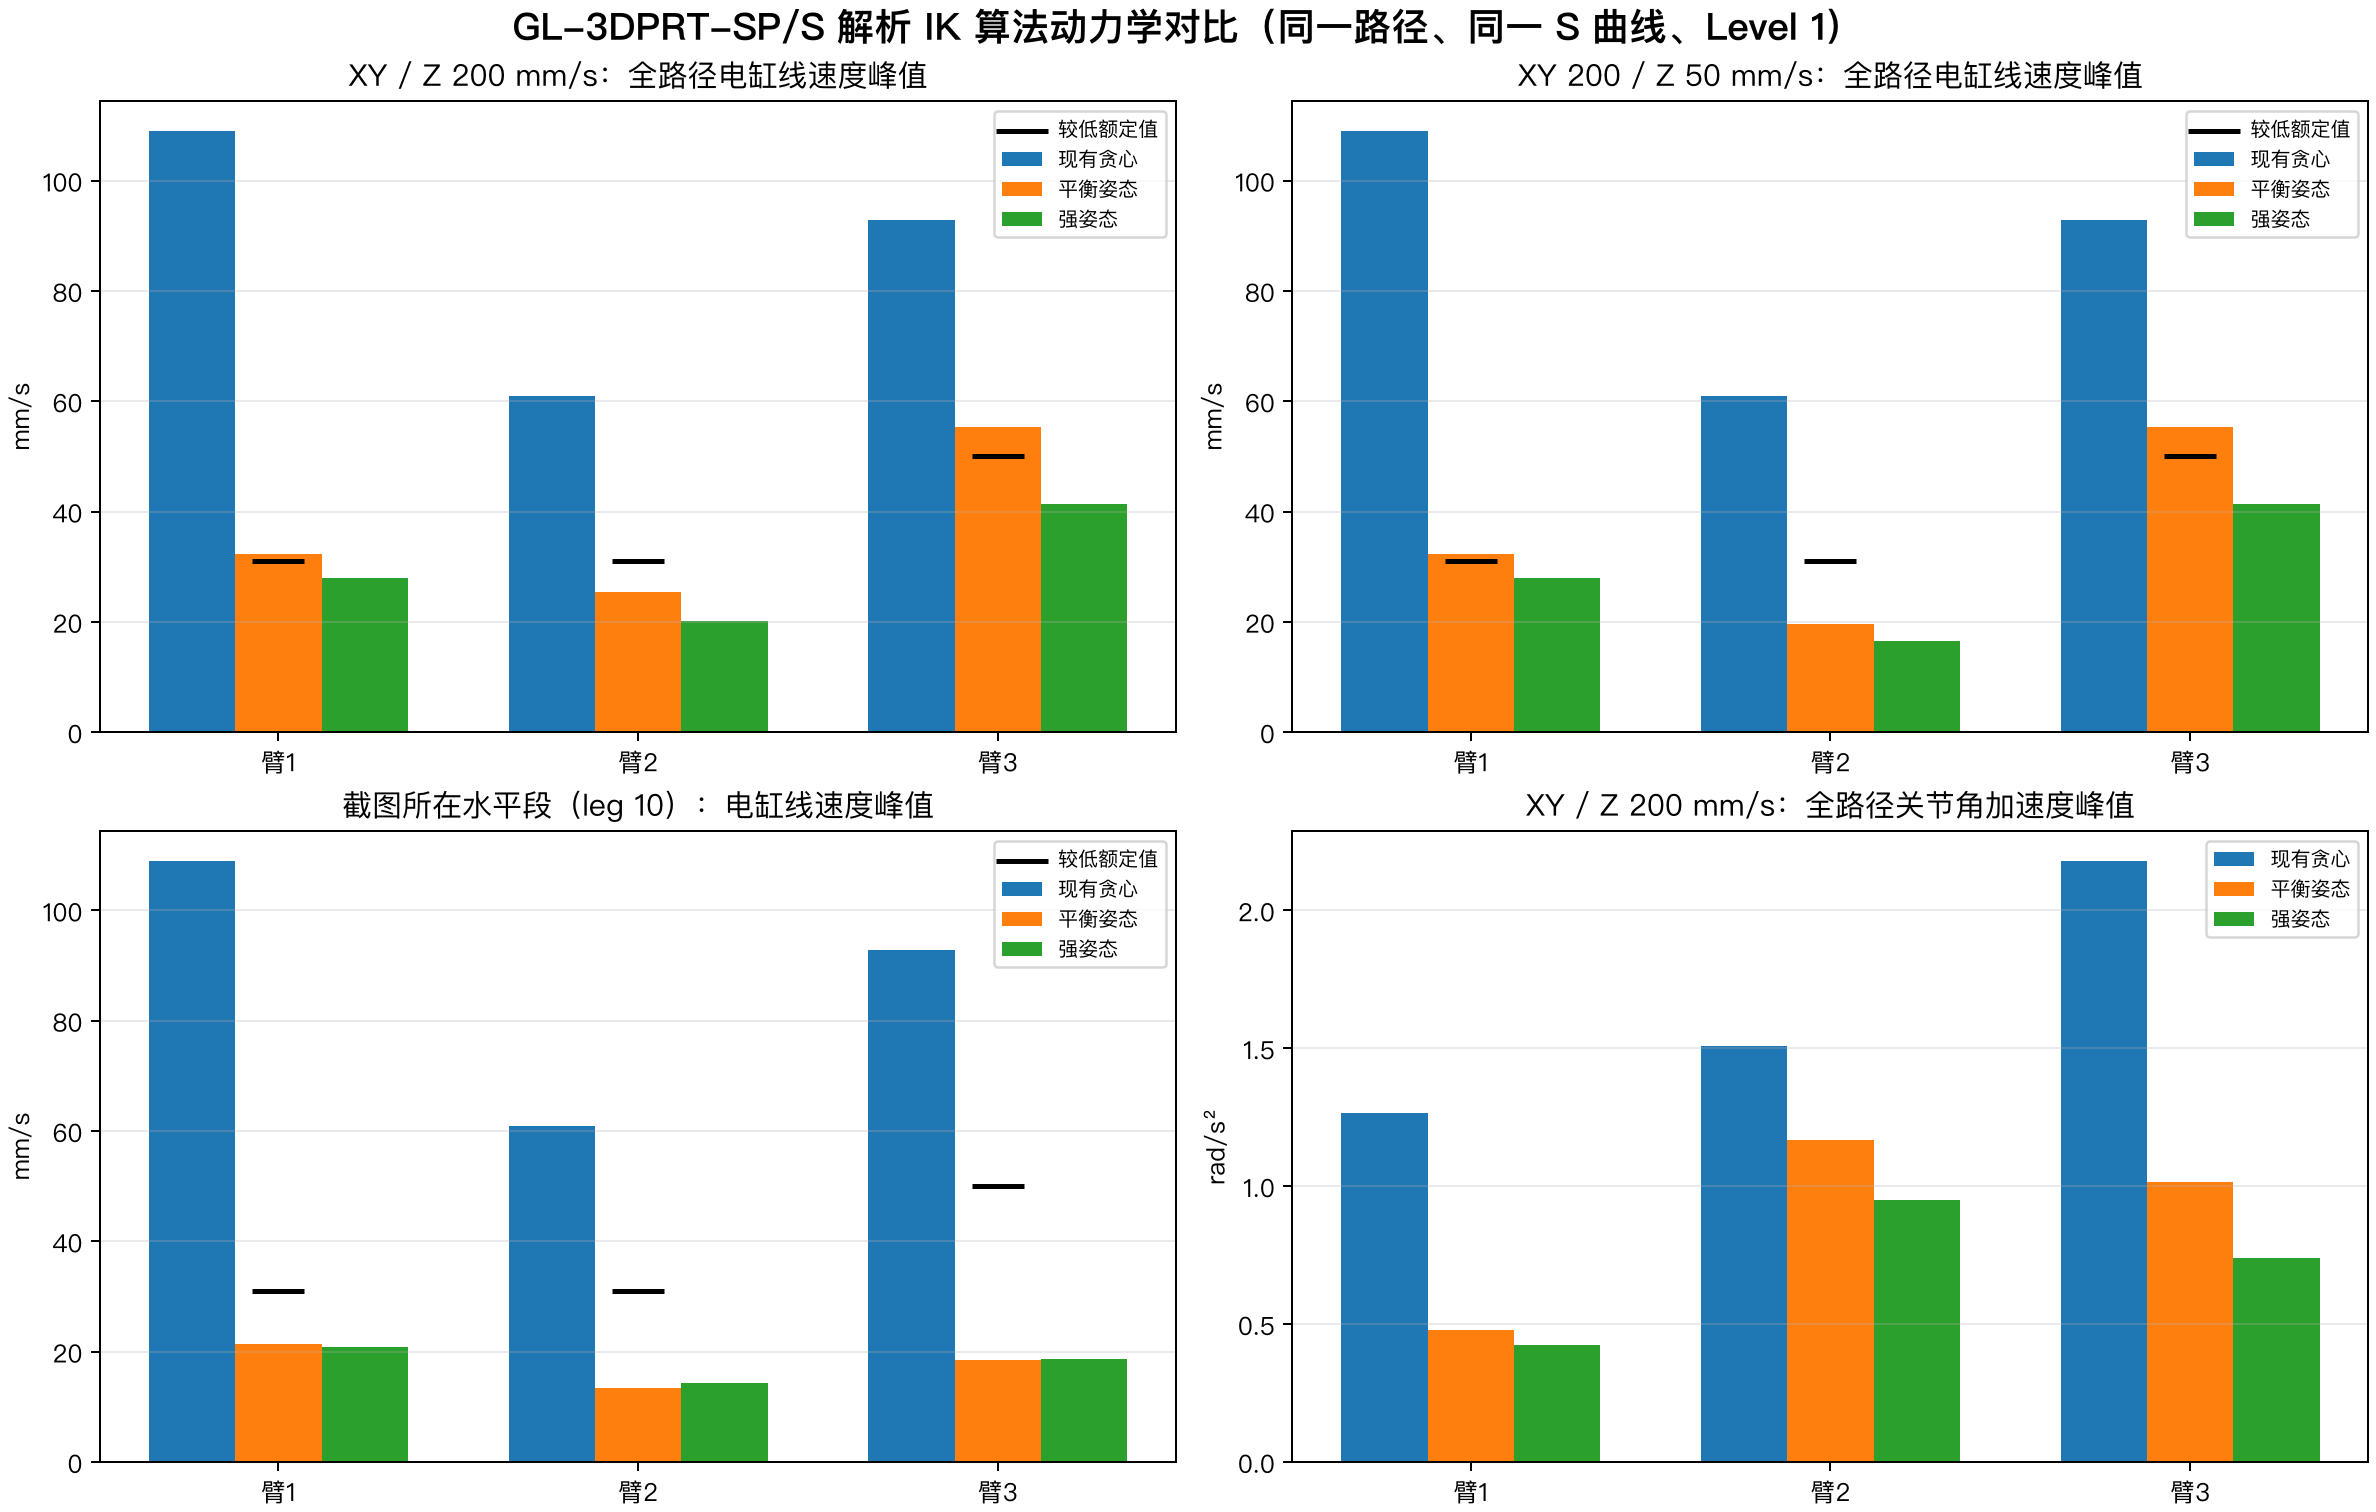
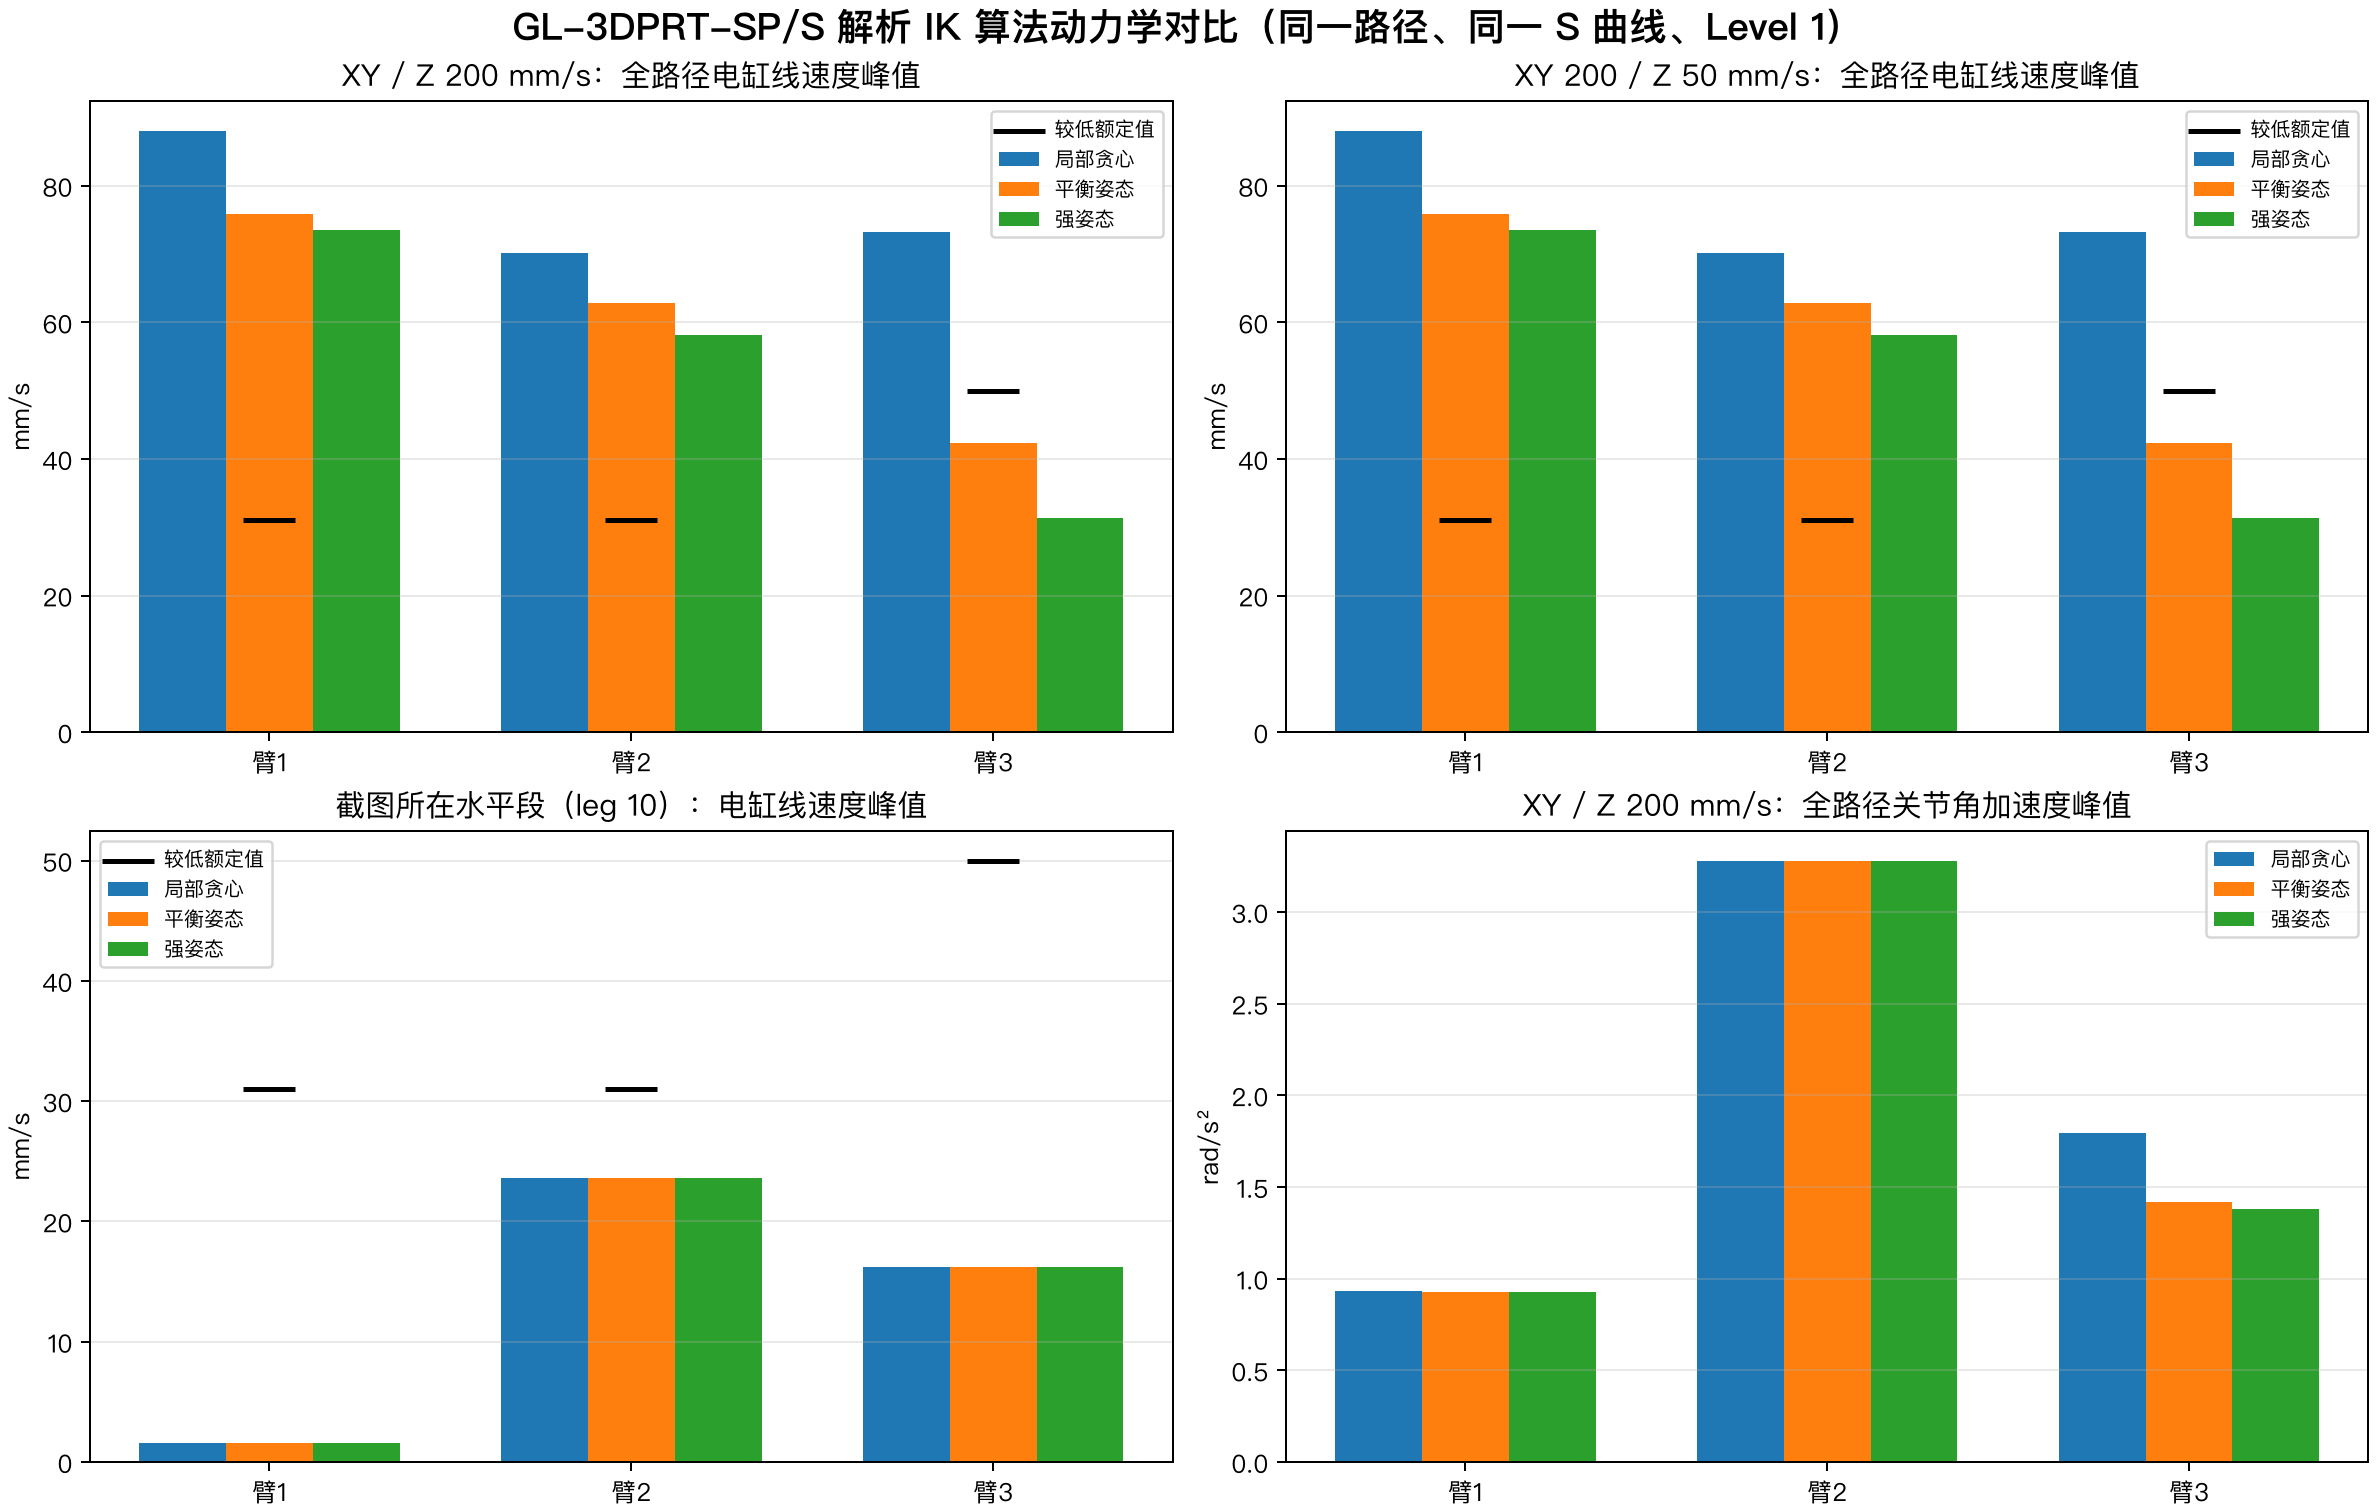
Update current-parameter envelope simulation

diff --git a/app.js b/app.js
@@ -14,8 +14,11 @@
     axis: "#262626",
     text: "#595959",
     textStrong: "#262626",
+    envelope: "rgba(176, 176, 176, 0.72)",
+    excludedInterval: "#9467bd",
     pathRemaining: "rgba(127, 127, 127, 0.72)",
     pathWalked: "#1f77b4",
+    layerBoundary: "#1f77b4",
     tcp: "#d62728",
     torque: "#1f77b4",
     speed: "#ff7f0e",
@@ -60,6 +63,8 @@
     metricGrid: document.getElementById("metric-grid"),
     scaleOutput: document.getElementById("scale-output"),
     dataSource: document.getElementById("data-source"),
+    pathDistanceBadge: document.getElementById("path-distance-badge"),
+    pathLimitBadge: document.getElementById("path-limit-badge"),
   };
 
   let motionBackground = document.createElement("canvas");
@@ -69,8 +74,8 @@
 
   function algorithm() {
     return DATA.algorithms?.[state.algorithmKey] ?? {
-      label: "现有局部贪心解析 φ",
-      shortLabel: "现有贪心",
+      label: "局部贪心解析",
+      shortLabel: "局部贪心",
       scenarios: DATA.scenarios,
     };
   }
@@ -140,6 +145,36 @@
     return motorTorqueNmForHardware(forceN, armIndex, hardware());
   }
 
+  function currentParameterEnvelopePoints() {
+    if (
+      DATA.envelope?.id !== "current_parameter_envelope"
+      || DATA.envelope?.status !== "formal"
+    ) return [];
+    return (DATA.envelope?.pointsXZ || [])
+      .map((point) => ({ x: Number(point[0]), z: Number(point[1]) }))
+      .filter((point) => Number.isFinite(point.x) && Number.isFinite(point.z));
+  }
+
+  function excludedEnvelopeSegments() {
+    if (
+      DATA.envelope?.id !== "current_parameter_envelope"
+      || DATA.envelope?.status !== "formal"
+    ) return [];
+    return (DATA.envelope?.excludedDisconnectedIntervals || []).flatMap((section) => {
+      const z = Number(section?.zMm);
+      if (!Number.isFinite(z)) return [];
+      return (section?.intervals || []).map((interval) => ({
+        z,
+        minimumX: Number(interval?.minimumXmm),
+        maximumX: Number(interval?.maximumXmm),
+      })).filter((interval) => (
+        Number.isFinite(interval.minimumX)
+        && Number.isFinite(interval.maximumX)
+        && interval.maximumX > interval.minimumX
+      ));
+    });
+  }
+
   function roundedRect(context, x, y, width, height, radius) {
     const r = Math.min(radius, width / 2, height / 2);
     context.beginPath();
@@ -152,7 +187,19 @@
   }
 
   function motionTransform(width, height) {
-    const bounds = { xMin: -800, xMax: 6500, zMin: -400, zMax: 7000 };
+    const envelope = currentParameterEnvelopePoints();
+    const allX = [...DATA.path.x.map(Number), ...envelope.map((point) => point.x)];
+    const allZ = [...DATA.path.z.map(Number), ...envelope.map((point) => point.z)];
+    const minimumX = Math.min(...allX);
+    const maximumX = Math.max(...allX);
+    const minimumZ = Math.min(...allZ);
+    const maximumZ = Math.max(...allZ);
+    const bounds = {
+      xMin: Math.min(-800, Math.floor((minimumX - 500) / 1000) * 1000),
+      xMax: Math.max(6500, Math.ceil((maximumX + 250) / 1000) * 1000),
+      zMin: Math.min(-400, Math.floor((minimumZ - 250) / 1000) * 1000),
+      zMax: Math.max(7000, Math.ceil((maximumZ + 500) / 1000) * 1000),
+    };
     const padding = { left: 51, right: 24, top: 25, bottom: 39 };
     const scale = Math.min(
       (width - padding.left - padding.right) / (bounds.xMax - bounds.xMin),
@@ -185,7 +232,7 @@
 
     context.font = "10px 'DejaVu Sans', Arial, sans-serif";
     context.lineWidth = 1;
-    for (let x = 0; x <= 6000; x += 1000) {
+    for (let x = 0; x <= transform.bounds.xMax; x += 1000) {
       const top = transform.point(x, transform.bounds.zMax);
       const bottom = transform.point(x, transform.bounds.zMin);
       context.strokeStyle = x === 0 ? COLORS.gridMajor : COLORS.grid;
@@ -194,7 +241,7 @@
       context.textAlign = "center";
       context.fillText(String(x), bottom.x, target.height - 13);
     }
-    for (let z = 0; z <= 7000; z += 1000) {
+    for (let z = 0; z <= transform.bounds.zMax; z += 1000) {
       const left = transform.point(transform.bounds.xMin, z);
       const right = transform.point(transform.bounds.xMax, z);
       context.strokeStyle = z === 0 ? COLORS.gridMajor : COLORS.grid;
@@ -213,6 +260,42 @@
     context.fillText("Z / mm", 0, 0);
     context.restore();
 
+    const envelope = currentParameterEnvelopePoints();
+    if (envelope.length >= 3) {
+      context.save();
+      context.strokeStyle = COLORS.envelope;
+      context.fillStyle = "rgba(176, 176, 176, 0.055)";
+      context.lineWidth = 1.5;
+      context.setLineDash([]);
+      context.beginPath();
+      envelope.forEach((sample, index) => {
+        const point = transform.point(sample.x, sample.z);
+        if (index === 0) context.moveTo(point.x, point.y);
+        else context.lineTo(point.x, point.y);
+      });
+      context.closePath();
+      context.fill();
+      context.stroke();
+      context.restore();
+    }
+
+    const excludedSegments = excludedEnvelopeSegments();
+    if (excludedSegments.length > 0) {
+      context.save();
+      context.strokeStyle = COLORS.excludedInterval;
+      context.lineWidth = 2.5;
+      context.setLineDash([3, 3]);
+      for (const segment of excludedSegments) {
+        const start = transform.point(segment.minimumX, segment.z);
+        const end = transform.point(segment.maximumX, segment.z);
+        context.beginPath();
+        context.moveTo(start.x, start.y);
+        context.lineTo(end.x, end.y);
+        context.stroke();
+      }
+      context.restore();
+    }
+
     const path = DATA.path;
     context.strokeStyle = COLORS.pathRemaining;
     context.lineWidth = 2;
@@ -225,6 +308,20 @@
     }
     context.stroke();
     context.setLineDash([]);
+    for (const boundary of path.layerBoundaries || []) {
+      const boundaryX = Number(
+        boundary.farXMaxMm
+        ?? boundary.xMaxMm
+        ?? boundary.rightXmm
+        ?? boundary.maximumXmm
+      );
+      if (!Number.isFinite(boundaryX) || !Number.isFinite(Number(boundary.zMm))) continue;
+      const point = transform.point(boundaryX, Number(boundary.zMm));
+      context.fillStyle = COLORS.layerBoundary;
+      context.beginPath();
+      context.arc(point.x, point.y, 2.5, 0, Math.PI * 2);
+      context.fill();
+    }
   }
 
   function upperPathIndex(pathPositions, currentPosition) {
@@ -530,6 +627,13 @@
     state.time = Math.min(duration, Math.max(0, fraction * duration));
     elements.slider.max = String(duration);
     elements.slider.step = "0.01";
+    elements.pathDistanceBadge.textContent = `${(scenario().distanceMm / 1000).toFixed(3)} m`;
+    const envelopeMaximumZ = Math.max(
+      ...currentParameterEnvelopePoints().map((point) => point.z),
+    );
+    elements.pathLimitBadge.textContent = Number.isFinite(envelopeMaximumZ)
+      ? `计算包络 Z ${envelopeMaximumZ.toFixed(1)} mm`
+      : "待重建当前参数包络";
     elements.dataSource.textContent = (
       `算法：${algorithm().label}；数据目录：${scenario().sourceDirectory}；几何：${DATA.geometrySource}`
     );

diff --git a/index.html b/index.html
@@ -10,13 +10,14 @@
   <body>
     <header class="topbar">
       <div>
-        <p class="eyebrow">GL-3DPRT-SP/S · LEVEL 1 · MECHANICAL_HARD</p>
+        <p class="eyebrow">GL-3DPRT-SP/S · LEVEL 1 · CURRENT_PARAMETER_ENVELOPE</p>
         <h1>全路径动力学模拟</h1>
       </div>
       <div class="headline-status" aria-label="计算口径">
         <span>jerk 10,000 mm/s³</span>
         <span>a ≤ 2,000 mm/s²</span>
-        <span>91.913 m</span>
+        <span id="path-distance-badge">— m</span>
+        <span id="path-limit-badge">当前参数计算包络</span>
       </div>
     </header>
 
@@ -24,7 +25,7 @@
       <label>
         <span>IK 算法</span>
         <select id="algorithm-select">
-          <option value="greedy_continuity" selected>现有局部贪心解析 φ</option>
+          <option value="greedy_continuity" selected>局部贪心解析</option>
           <option value="balanced_posture">平衡姿态解析 φ</option>
           <option value="posture_priority">强姿态解析 φ</option>
         </select>
@@ -60,7 +61,7 @@
         <input id="time-slider" type="range" min="0" max="1" value="0" step="0.01" aria-label="路径时间" />
         <div class="timeline-labels">
           <output id="time-output">0.00 / 0.00 s</output>
-          <output id="path-output">0.000 / 91.913 m</output>
+          <output id="path-output">0.000 / — m</output>
           <output id="layer-output">第 1 层 · 路段 1</output>
         </div>
       </div>
@@ -74,8 +75,11 @@
             <h2 id="motion-title">机械臂与 TCP 全路径</h2>
           </div>
           <div class="legend compact">
+            <span><i class="swatch envelope"></i>当前参数计算包络</span>
+            <span><i class="swatch excluded"></i>隔离区间</span>
             <span><i class="swatch walked"></i>已走</span>
             <span><i class="swatch remaining"></i>未走</span>
+            <span><i class="swatch boundary"></i>层端点</span>
             <span><i class="swatch tcp"></i>TCP</span>
           </div>
         </div>
@@ -83,7 +87,7 @@
           <canvas id="motion-canvas" role="img" aria-label="三关节机械臂沿往复全路径运动动画"></canvas>
         </div>
         <div class="pose-readout" id="pose-readout">
-          <span>TCP X <b>2000.0</b> mm</span>
+          <span>TCP X <b>1771.0</b> mm</span>
           <span>TCP Z <b>0.0</b> mm</span>
           <span>Arm1 <b>—</b>°</span>
           <span>Arm2 <b>—</b>°</span>
@@ -116,7 +120,9 @@
     <footer>
       <p>
         额定电机扭矩按额定功率 / 3000 rpm 换算并以虚线标出；效率、高速扭矩包络仍为
-        <code>unknown_pending_supplier_data</code>，本动画不构成最终硬件认证。
+        <code>unknown_pending_supplier_data</code>。正式路径与包络均按当前参数计算；58点资料仅为
+        <code>unverified_reference</code>，不参与路径或正式图层；
+        本模拟不构成最终硬件认证。
       </p>
       <p id="data-source"></p>
     </footer>

diff --git a/styles.css b/styles.css
@@ -169,8 +169,18 @@ input[type="range"] {
 }
 
 .swatch.walked { background: var(--cyan); }
+.swatch.envelope {
+  height: 2px;
+  background: #b0b0b0;
+  outline: 1px solid rgba(176, 176, 176, 0.25);
+}
+.swatch.excluded {
+  height: 2px;
+  background: repeating-linear-gradient(90deg, #9467bd 0 4px, transparent 4px 7px);
+}
 .swatch.remaining { background: #b0b0b0; }
-.swatch.tcp { width: 7px; height: 7px; background: var(--amber); }
+.swatch.boundary { width: 7px; height: 7px; background: var(--blue); }
+.swatch.tcp { width: 7px; height: 7px; background: var(--red); }
 .swatch.demand { background: var(--blue); }
 .swatch.rated { background: var(--red); }
 .swatch.dashed { background: repeating-linear-gradient(90deg, var(--red) 0 5px, transparent 5px 8px); }

diff --git a/model-lite.js b/model-lite.js
@@ -6,7 +6,7 @@
   // so this standalone file:// animation does not introduce a second model.
   const BASE_JOINT = Object.freeze({ x: -450.742, z: 385.188 });
   const ARM_LENGTHS_MM = Object.freeze([3396.989, 3047.007, 2053.5640000000003]);
-  const TOOL_LENGTH_MM = 730;
+  const TOOL_LENGTH_MM = 747.536;
 
   function nextJoint(origin, absoluteAngleRad, lengthMm) {
     return {

diff --git a/README.md b/README.md
@@ -1,45 +1,41 @@
 # GL-3DPRT-SP/S 全路径动力学模拟
 
-这是可独立运行的静态网页发布包，不依赖构建步骤。
+双击 `index.html` 即可离线运行，也可通过任意静态 HTTP 服务打开。
 
-- 直接双击 `index.html` 可离线运行。
-- 也可在仓库根目录执行 `python3 -m http.server 8000`，然后打开
-  `http://localhost:8000/`。
-- GitHub Pages 可直接以 `main` 分支根目录作为发布源。
-
-`data.js` 由上游工程的 `scripts/build-dynamics-animation.py` 从正式 nominal jerk
-全路径 CSV 生成；本仓库保存网页运行所需的冻结数据快照。
-算法下拉包含现有贪心、平衡姿态和强姿态三种严格解析方案；三者均命中同一 TCP 路径并使用相同限位。
+数据由 `scripts/build-dynamics-animation.py` 从正式 nominal jerk 全路径 CSV 生成。
+正式图层为当前参数计算包络；58点资料仅记录为 `unverified_reference`，不参与路径或正式图层。
+高位不相连可行区间单独标为“隔离区间”；路径只沿与底层连续相通的分量上升，不跨越空洞。
+算法下拉包含局部贪心、平衡姿态和强姿态三种严格解析方案；三者均命中同一 TCP 路径并使用相同当前参数口径。
 详细数值和原因说明见 `algorithm-comparison.md`，对比图见 `algorithm-comparison.png`。
 电机扭矩为 η=1 的最不利单电机轴等效需求理论下限；不是厂家最终选型扭矩。
-右侧所有工况、硬件组和臂共用固定量程：扭矩 0～9 N·m，电缸线速度 -120～120 mm/s。
+右侧所有工况、硬件组和臂共用固定量程：扭矩 0～9 N·m，电缸线速度 -100～100 mm/s。
 
 ## 生成校验
 
-- 现有贪心 · XY / Z 150 mm/s: samples=12664, duration=623.2865s, cylinder speed peaks=81.771,45.755,69.582 mm/s
--   第一组: eta=1 motor torque peaks=1.232,1.668,1.158 Nm
--   第二组: eta=1 motor torque peaks=1.315,1.779,1.158 Nm
-- 现有贪心 · XY / Z 200 mm/s: samples=9580, duration=471.7275s, cylinder speed peaks=109.025,61.006,92.776 mm/s
--   第一组: eta=1 motor torque peaks=1.309,1.697,1.178 Nm
--   第二组: eta=1 motor torque peaks=1.396,1.810,1.178 Nm
-- 现有贪心 · XY 200 / Z 50 mm/s: samples=10777, duration=531.7576s, cylinder speed peaks=109.025,61.006,92.776 mm/s
--   第一组: eta=1 motor torque peaks=1.308,1.697,1.104 Nm
--   第二组: eta=1 motor torque peaks=1.395,1.810,1.104 Nm
-- 平衡姿态 · XY / Z 150 mm/s: samples=12664, duration=623.2865s, cylinder speed peaks=24.282,19.078,41.495 mm/s
--   第一组: eta=1 motor torque peaks=1.183,1.631,1.140 Nm
--   第二组: eta=1 motor torque peaks=1.262,1.740,1.140 Nm
-- 平衡姿态 · XY / Z 200 mm/s: samples=9580, duration=471.7275s, cylinder speed peaks=32.376,25.438,55.327 mm/s
--   第一组: eta=1 motor torque peaks=1.199,1.655,1.159 Nm
--   第二组: eta=1 motor torque peaks=1.279,1.766,1.159 Nm
-- 平衡姿态 · XY 200 / Z 50 mm/s: samples=10777, duration=531.7576s, cylinder speed peaks=32.376,19.639,55.327 mm/s
--   第一组: eta=1 motor torque peaks=1.192,1.627,1.090 Nm
--   第二组: eta=1 motor torque peaks=1.271,1.736,1.090 Nm
-- 强姿态 · XY / Z 150 mm/s: samples=12664, duration=623.2865s, cylinder speed peaks=21.161,15.162,30.988 mm/s
--   第一组: eta=1 motor torque peaks=1.184,1.634,1.142 Nm
--   第二组: eta=1 motor torque peaks=1.263,1.743,1.142 Nm
-- 强姿态 · XY / Z 200 mm/s: samples=9580, duration=471.7275s, cylinder speed peaks=27.954,20.215,41.314 mm/s
--   第一组: eta=1 motor torque peaks=1.201,1.657,1.160 Nm
--   第二组: eta=1 motor torque peaks=1.281,1.767,1.160 Nm
-- 强姿态 · XY 200 / Z 50 mm/s: samples=10777, duration=531.7576s, cylinder speed peaks=27.954,16.446,41.314 mm/s
--   第一组: eta=1 motor torque peaks=1.188,1.636,1.092 Nm
--   第二组: eta=1 motor torque peaks=1.267,1.745,1.092 Nm
+- 局部贪心 · XY / Z 150 mm/s: samples=25145, duration=1225.9938s, cylinder speed peaks=66.124,52.638,55.064 mm/s
+-   第一组: eta=1 motor torque peaks=1.490,1.968,1.465 Nm
+-   第二组: eta=1 motor torque peaks=1.590,2.099,1.465 Nm
+- 局部贪心 · XY / Z 200 mm/s: samples=19260, duration=934.0072s, cylinder speed peaks=88.040,70.174,73.288 mm/s
+-   第一组: eta=1 motor torque peaks=1.524,2.000,1.499 Nm
+-   第二组: eta=1 motor torque peaks=1.625,2.134,1.499 Nm
+- 局部贪心 · XY 200 / Z 50 mm/s: samples=21019, duration=1024.0707s, cylinder speed peaks=88.040,70.174,73.288 mm/s
+-   第一组: eta=1 motor torque peaks=1.524,2.000,1.409 Nm
+-   第二组: eta=1 motor torque peaks=1.625,2.134,1.409 Nm
+- 平衡姿态 · XY / Z 150 mm/s: samples=25145, duration=1225.9938s, cylinder speed peaks=57.572,47.088,31.782 mm/s
+-   第一组: eta=1 motor torque peaks=1.491,1.964,1.460 Nm
+-   第二组: eta=1 motor torque peaks=1.590,2.095,1.460 Nm
+- 平衡姿态 · XY / Z 200 mm/s: samples=19260, duration=934.0072s, cylinder speed peaks=75.817,62.805,42.394 mm/s
+-   第一组: eta=1 motor torque peaks=1.524,1.996,1.499 Nm
+-   第二组: eta=1 motor torque peaks=1.626,2.129,1.499 Nm
+- 平衡姿态 · XY 200 / Z 50 mm/s: samples=21019, duration=1024.0707s, cylinder speed peaks=75.817,62.805,42.394 mm/s
+-   第一组: eta=1 motor torque peaks=1.524,1.996,1.409 Nm
+-   第二组: eta=1 motor torque peaks=1.626,2.129,1.409 Nm
+- 强姿态 · XY / Z 150 mm/s: samples=25145, duration=1225.9938s, cylinder speed peaks=56.650,43.645,23.561 mm/s
+-   第一组: eta=1 motor torque peaks=1.491,1.964,1.460 Nm
+-   第二组: eta=1 motor torque peaks=1.590,2.095,1.460 Nm
+- 强姿态 · XY / Z 200 mm/s: samples=19260, duration=934.0072s, cylinder speed peaks=73.499,58.195,31.416 mm/s
+-   第一组: eta=1 motor torque peaks=1.525,1.997,1.499 Nm
+-   第二组: eta=1 motor torque peaks=1.626,2.130,1.499 Nm
+- 强姿态 · XY 200 / Z 50 mm/s: samples=21019, duration=1024.0707s, cylinder speed peaks=73.499,58.195,31.416 mm/s
+-   第一组: eta=1 motor torque peaks=1.525,1.997,1.409 Nm
+-   第二组: eta=1 motor torque peaks=1.626,2.130,1.409 Nm

diff --git a/algorithm-comparison.md b/algorithm-comparison.md
@@ -1,6 +1,6 @@
 # GL-3DPRT-SP/S 全路径 IK 算法动力学对比
 
-三种方案均使用同一 91.913 m TCP 路径、同一 jerk 受限 S 曲线、相同机械硬限位与 Level 1 动力学口径。
+三种方案均使用同一条当前参数计算包络内路径：名义层距 200 mm，高位必要时按 50 mm 步长缩至最低 50 mm；每层填满当前参数模型给出的可行区间，并以同一包络校验连接段；正式路径 178.660 m，最高 Z=7556.2 mm。轨迹均采用同一 jerk 受限 S 曲线、相同当前参数口径与 Level 1 动力学口径。58点资料仅为 unverified_reference，不参与路径或正式图层。
 
 ## 截图突变的原因
 
@@ -12,22 +12,23 @@
 
 | 算法 | 电缸速度峰值 Arm1/2/3 (mm/s) | 单缸力峰值 Arm1/2/3 (kN) | 第一组电机扭矩 η=1 (N·m) | 第二组电机扭矩 η=1 (N·m) | 关节角加速度峰值 (rad/s²) |
 |---|---:|---:|---:|---:|---:|
-| 现有贪心 | 109.025 / 61.006 / 92.776 | 13.155 / 17.055 / 7.401 | 1.309 / 1.697 / 1.178 | 1.396 / 1.810 / 1.178 | 1.265 / 1.508 / 2.180 |
-| 平衡姿态 | 32.376 / 25.438 / 55.327 | 12.058 / 16.643 / 7.279 | 1.199 / 1.655 / 1.159 | 1.279 / 1.766 / 1.159 | 0.478 / 1.168 / 1.014 |
-| 强姿态 | 27.954 / 20.215 / 41.315 | 12.072 / 16.656 / 7.289 | 1.201 / 1.657 / 1.160 | 1.281 / 1.767 / 1.160 | 0.425 / 0.950 / 0.739 |
+| 局部贪心 | 88.040 / 70.174 / 73.288 | 15.320 / 20.109 / 9.418 | 1.524 / 2.000 / 1.499 | 1.625 / 2.134 / 1.499 | 0.933 / 3.280 / 1.796 |
+| 平衡姿态 | 75.817 / 62.805 / 42.394 | 15.322 / 20.063 / 9.419 | 1.524 / 1.996 / 1.499 | 1.626 / 2.129 / 1.499 | 0.925 / 3.280 / 1.420 |
+| 强姿态 | 73.499 / 58.195 / 31.416 | 15.326 / 20.077 / 9.419 | 1.525 / 1.997 / 1.499 | 1.626 / 2.130 / 1.499 | 0.926 / 3.280 / 1.383 |
 
 ## XY 200 / Z 50 mm/s 结果
 
 | 算法 | 电缸速度峰值 Arm1/2/3 (mm/s) | 单缸力峰值 Arm1/2/3 (kN) | 第一组电机扭矩 η=1 (N·m) | 第二组电机扭矩 η=1 (N·m) |
 |---|---:|---:|---:|---:|
-| 现有贪心 | 109.025 / 61.006 / 92.776 | 13.147 / 17.055 / 6.936 | 1.308 / 1.697 / 1.104 | 1.395 / 1.810 / 1.104 |
-| 平衡姿态 | 32.376 / 19.639 / 55.327 | 11.984 / 16.358 / 6.847 | 1.192 / 1.627 / 1.090 | 1.271 / 1.736 / 1.090 |
-| 强姿态 | 27.954 / 16.446 / 41.315 | 11.941 / 16.443 / 6.858 | 1.188 / 1.636 / 1.092 | 1.267 / 1.745 / 1.092 |
+| 局部贪心 | 88.040 / 70.174 / 73.288 | 15.320 / 20.109 / 8.852 | 1.524 / 2.000 / 1.409 | 1.625 / 2.134 / 1.409 |
+| 平衡姿态 | 75.817 / 62.805 / 42.394 | 15.322 / 20.063 / 8.852 | 1.524 / 1.996 / 1.409 | 1.626 / 2.129 / 1.409 |
+| 强姿态 | 73.499 / 58.195 / 31.416 | 15.326 / 20.077 / 8.852 | 1.525 / 1.997 / 1.409 | 1.626 / 2.130 / 1.409 |
 
 ## 使用边界
 
 - Original/Balanced 坐标下降以及 Active-3/Active-5 DLS 保留在实验参考层；它们是增量控制器或允许非零末端误差，不能直接替代严格几何路径生成正式 q/qdot/qddot。
-- 强姿态方案当前是最有希望的候选：200 mm/s 下三臂电缸线速度均低于两组硬件额定值；仍需在更多路径、采样步长和参数扰动下验证后才能替换基线。
+- 在当前 178.660 m 当前参数计算包络路径上，强姿态方案的 200 mm/s 电缸速度峰值 Arm1/2/3 为 73.499 / 58.195 / 31.416 mm/s；是否通过必须逐臂与所选硬件额定线速度比较，不能沿用旧路径结论。
+- 因此三种 IK 都不能使现有硬件在全路径 200 mm/s 工况下整体通过；算法对比用于识别姿态规划对动力学需求的影响，不替代以额定速度和最不利载荷为准的硬件校核。
 - 扭矩为 η=1 理论下限；厂家效率和高速扭矩包络仍为 unknown_pending_supplier_data。
 
 ![算法动力学对比](algorithm-comparison.png)